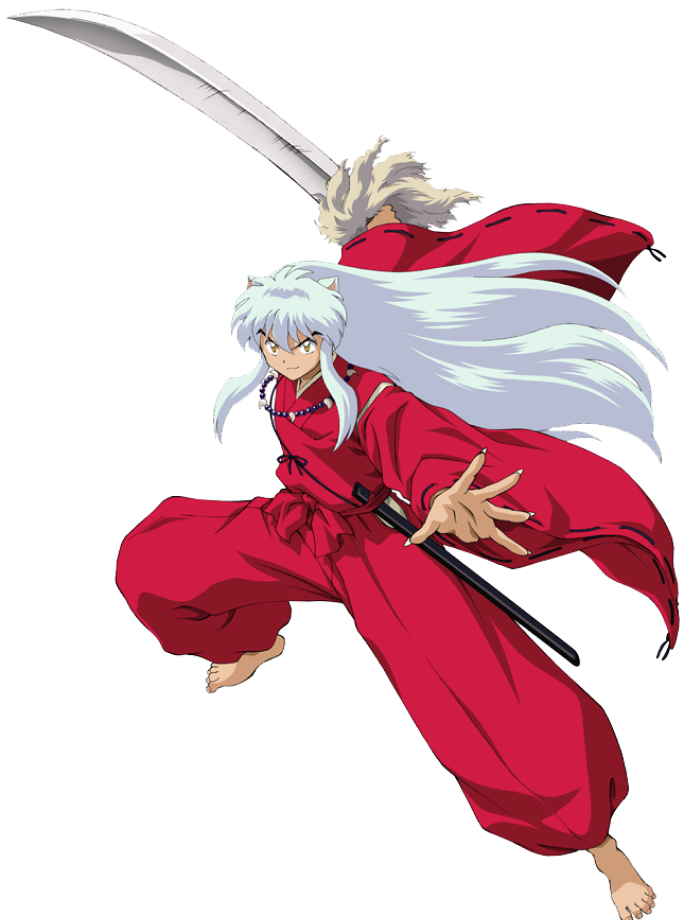
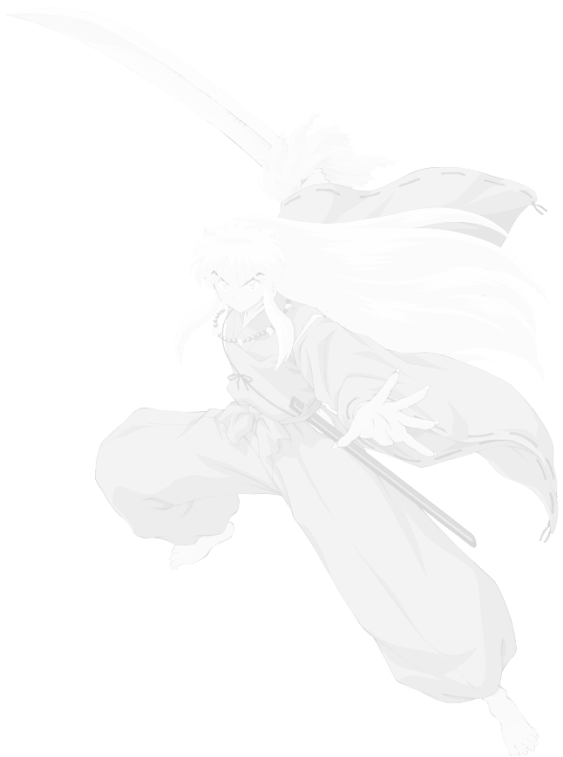
Completed general layout of page

diff --git a/src/inuyasha/inuyasha.sass b/src/inuyasha/inuyasha.sass
@@ -3,43 +3,58 @@
     background: #fcfaf8fd
     display: flex
     align-items: center
+    justify-content: center
     overflow: hidden //prevents childs go out of the parent
 
+.inuyasha-header
+    font-size: 30px
+    letter-spacing: 20px
+
 .inuyasha-description
+    position: relative
     width: 40vw
-    font-size: 24px
+    font-size: 20px
     color: #737373
-    margin-left: 12%
+    margin-left: 5%
+    word-spacing:4px
+    line-height: 179.2%
     .inuyasha-header
         color: #D01C43
         font-size: 50px
+        letter-spacing: 51%
     
-.inu-image-group
-    height: 100vh
-    margin: auto
-    position: relative
-    padding-top: 40px
-    margin-left: 3vw
+.inu-pic
+    top: -200px
+    margin-left: 280px
+    position: absolute
+    user-drag: none
+    -webkit-user-drag: none
+    user-select: none
+    -moz-user-select: none
+    -webkit-user-select: none
+    -ms-user-select: none
+    filter: brightness(20%)
+    opacity: 70%
 
-    .circle
-        height: 500px
-        width: 500px
-        background-color: rgb(241, 239, 239)
-        border-radius: 50%
-        top: 100px
-        position: absolute
-
+@media (max-width: 1280px)
     .inu-pic
-        height: 90vh
-        position: absolute
-
-@media (max-width: 1240px)
-    .inu-image-group
-        margin-left: 0
+        margin-left: 100px
+        top: -100px
 
 @media (max-width: 769px)
     .inuyasha
-        flex-direction: column-reverse
-
+        flex-direction: column
+    .inu-pic2
+        width: 40%
     .inuyasha-description
         width: 80vw
+    
+    .inu-pic
+        top: 0px
+
+@media (max-width: 390px)
+    .inuyasha-description
+        width: 100%
+    .inu-pic
+        top: 0px
+        margin-left: -180px

diff --git a/src/inuyasha/Inuyasha.js b/src/inuyasha/Inuyasha.js
@@ -1,6 +1,7 @@
 import React from "react";
 import "./inuyasha.sass";
-import InuyashaImage from "../assets/inuyasha.png";
+import InuyashaImage from "../assets/Inuyasha.png";
+import InuyashaImage2 from "../assets/Inuyasha2.png";
 import { motion } from "framer-motion";
 
 
@@ -14,19 +15,22 @@ export default function Inuyasha() {
     variants={animation}
     animate="animate"
     className="inuyasha">
+      <img className="inu-pic2" src={InuyashaImage2} />
       <section className="inuyasha-description">
         <h2 className="inuyasha-header">INUYASHA</h2>
         <p>
           The son of a demon father and a human mother, was bound to a sacred
           tree from Kikyo, the shrine priestess, while trying to claim the
-          Shikon Jewel. A powerful shard amongst demons. Until Kagome, fdks
-          reincarnation freed him.
+          Shikon Jewel, a powerful shard amongst demons. Until Kagome, who is supposedly Kikyo's
+          reincarnation, freed him.
         </p>
-      </section>
-      <section className="inu-image-group">
-        <div className="circle"></div>
+        <blockquote>"I'm a half-demon, more egotistical and greedy than any other living creature — that's what human beings are, right?"</blockquote >
         <img className="inu-pic" src={InuyashaImage} />
+        
       </section>
+
+
+        
     </motion.div>
   );
 }

diff --git a/src/common/common.sass b/src/common/common.sass
@@ -6,3 +6,7 @@
 ::-webkit-scrollbar-thumb 
   background: #587e39
   border-radius: 10px
+
+blockquote
+  font-weight: 500
+  font-style: italic
